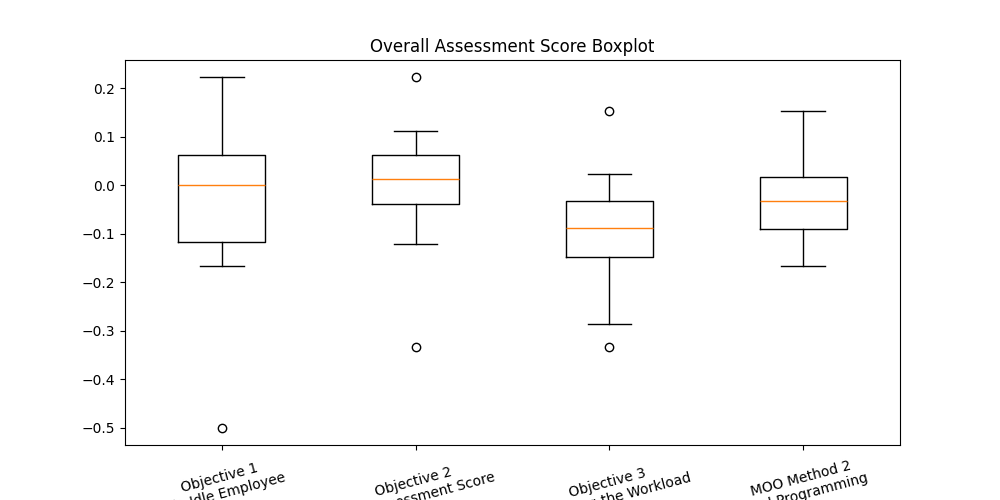
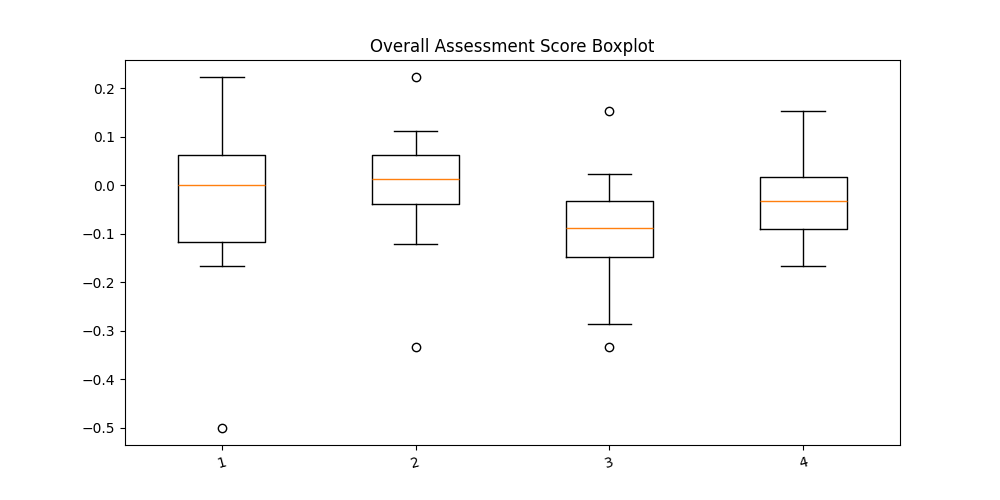
fix: set .lic file to .py file

diff --git a/project1_task-management/solution/competency_assesment/gurobi_competency_assessment.py b/project1_task-management/solution/competency_assesment/gurobi_competency_assessment.py
@@ -19,7 +19,11 @@ import matplotlib.pyplot as plt
 from gurobipy import GRB, quicksum
 from competency_assessment import CompetencyAssessment
 
-full = True
+
+# User Parameters
+
+license_file_path = "./data/gurobi.lic"
+full = False
 
 if full:
     # Data Fix
@@ -31,13 +35,13 @@ else:
     TASK_PATH = "./mini_data/mini_data - task.csv"
 
 
-def s1_data_structure_CA():
+def s1_data_structure_CA(employee_path, task_path, license_file):
     """# 1. Define the Data Structure"""
 
     try:
         # Run this if the data in Local/Repository
-        new_employee_path = EMPLOYEE_PATH
-        new_task_path = TASK_PATH
+        new_employee_path = employee_path
+        new_task_path = task_path
 
         """## 1.1. Pre-Processing: Employee Data"""
 
@@ -99,15 +103,18 @@ def s1_data_structure_CA():
         score = ca.rank_MSG(qs)
         score_df = pd.DataFrame.from_dict(score, orient="index")
 
+        """## 1.5. Pre-Processing: Get the License of Gurobi"""
+        params = read_license_file(license_file)
+
         # Export the score dictionary to CSV
         score_df.to_csv("./output_CA/score.csv")
 
-        return employees, skills_name, tasks, story_points, company_tasks, score
+        return employees, skills_name, tasks, story_points, company_tasks, score, params
 
     except Exception as e:
         send_discord_notification(f"An error occured in s1_data_structure_CA: {e}")
         print(f"An error occurred in s1_data_structure_CA: {e}")
-        return [], [], [], {}, {}, {}
+        return [], [], [], {}, {}, {}, {}
 
 
 """#### Generic Function"""
@@ -139,21 +146,31 @@ def get_employee_tasks(
     return comp, task, sp, wasted_sp, sim
 
 
-def s2_construct_model():
+# Get the License of Gurobi
+def read_license_file(filepath):
+    params = {}
+    with open(filepath, "r") as file:
+        for line in file:
+            if line.startswith("WLSACCESSID"):
+                params["WLSACCESSID"] = line.split("=")[1].strip()
+            elif line.startswith("WLSSECRET"):
+                params["WLSSECRET"] = line.split("=")[1].strip()
+            elif line.startswith("LICENSEID"):
+                params["LICENSEID"] = int(line.split("=")[1].strip())
+    return params
+
+
+def s2_construct_model(license_params):
     """# 2. Construct the Model"""
 
     try:
-        WLSACCESSID = "f26730de-b14b-4197-9dbd-7d12372b5d9e"
-        WLSSECRET = "4ff3e9d2-037b-47c4-898d-6de34404e994"
-        LICENSEID = 2521640
-
         # Create an environment with WLS license
-        params = {
-            "WLSACCESSID": WLSACCESSID,
-            "WLSSECRET": WLSSECRET,
-            "LICENSEID": LICENSEID,
+        parameter = {
+            "WLSACCESSID": license_params["WLSACCESSID"],
+            "WLSSECRET": license_params["WLSSECRET"],
+            "LICENSEID": license_params["LICENSEID"],
         }
-        env = gp.Env(params=params)
+        env = gp.Env(params=parameter)
 
         # Create the model within the Gurobi environment
         model = gp.Model(name="task_assignment", env=env)
@@ -861,7 +878,7 @@ def s8_MOO_1(
                 assessment_score_3,
                 assessment_score_4,
             ],
-            labels=[
+            label=[
                 "Obj 1: Min Idle Employee",
                 "Obj 2: Max Similarity Score",
                 "Obj 3: Balancing the Workload",
@@ -1056,7 +1073,7 @@ def s9_MOO_2(
         plt.figure(figsize=(10, 5))
         plt.boxplot(
             data,
-            labels=[
+            label=[
                 "Objective 1\nMin Idle Employee",
                 "Objective 2\nMax Assessment Score",
                 "Objective 3\nBalancing the Workload",
@@ -1105,19 +1122,9 @@ class GapCallback:
                         if int(percentage_gap) not in self.reported_gaps:
                             print(f"Model reached {int(percentage_gap)}% gap.")
                             send_discord_notification(
-                                f"Model reached {int(percentage_gap)}% gap."
+                                f"Model reached {int(percentage_gap) - 1}% gap."
                             )
                             self.reported_gaps.add(int(percentage_gap))
-
-
-def wait_for_y():
-    while True:
-        user_input = input("Press 'Y' to continue: ")
-        if user_input.upper() == "Y":
-            print("Continuing process...\n\n")
-            break
-        else:
-            print("Invalid input. Please press 'Y'.")
 
 
 def close_plot():
@@ -1150,7 +1157,6 @@ def main():
     ==============================================
     """
     print(header)
-    # wait_for_y()
 
     header_msg = (
         f"Task Assignment Optimization Problem: START with Competence Assessment"
@@ -1167,9 +1173,15 @@ def main():
 
     try:
         # Section 1
-        employees, skills_name, tasks, story_points, company_tasks, score = (
-            s1_data_structure_CA()
-        )
+        (
+            employees,
+            skills_name,
+            tasks,
+            story_points,
+            company_tasks,
+            score,
+            license_params,
+        ) = s1_data_structure_CA(EMPLOYEE_PATH, TASK_PATH, license_file_path)
 
         section_1_msg_1 = f"Section 1: Data Structure Run Successfully"
         section_1_msg_2 = f"score.csv has been saved in the output_CA/score folder.\n\n"
@@ -1179,7 +1191,7 @@ def main():
         send_discord_notification(section_1_msg_2)
 
         # Section 2
-        model = s2_construct_model()
+        model = s2_construct_model(license_params)
         if model:
             print(f"Section 2: Construct Model Run Successfully\n\n")
             send_discord_notification("Section 2: Construct Model Run Successfully")
@@ -1289,35 +1301,6 @@ def main():
         else:
             send_discord_notification("Objective 3 failed.")
             raise Exception("Objective 3 failed.")
-
-        # Section 8
-        # send_discord_notification("Section 8: MOO Method 1 START")
-        # start_time = datetime.datetime.now()
-        # assessment_score_4 = s8_MOO_1(
-        #     model,
-        #     employees,
-        #     company_tasks,
-        #     score,
-        #     story_points,
-        #     max_employee_workload,
-        #     mu_Z_1,
-        #     mu_Z_2,
-        #     mu_Z_3,
-        #     assessment_score_1,
-        #     assessment_score_2,
-        #     assessment_score_3,
-        # )
-        # end_time = datetime.datetime.now()
-        # duration = (end_time - start_time).seconds
-
-        # if assessment_score_4 is not None:
-        #     send_discord_notification(
-        #         f"Section 8: MOO Method 1 Run Successfully with {duration} seconds"
-        #     )
-        #     print(f"Section 8: MOO Method 1 Run Successfully\n\n")
-        # else:
-        #     send_discord_notification("MOO Method 1 failed.")
-        #     raise Exception("MOO Method 1 failed.")
 
         # Section 9
         send_discord_notification("Section 9: MOO Method 2 START")
